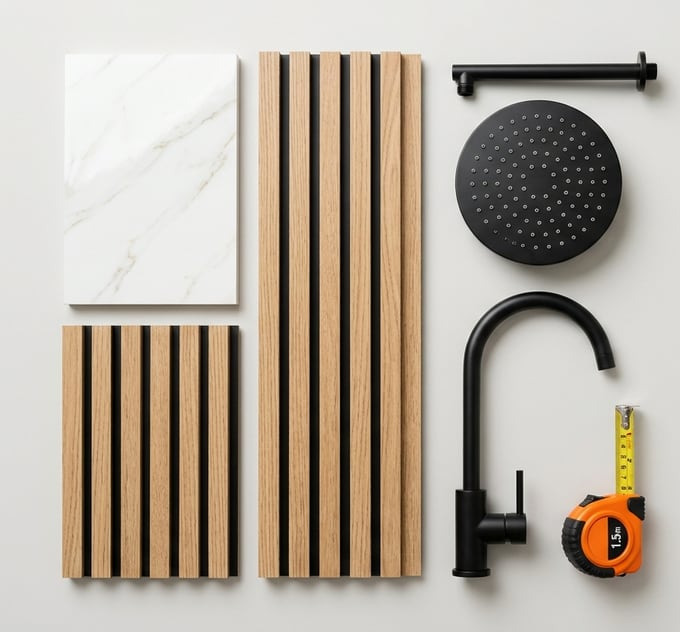
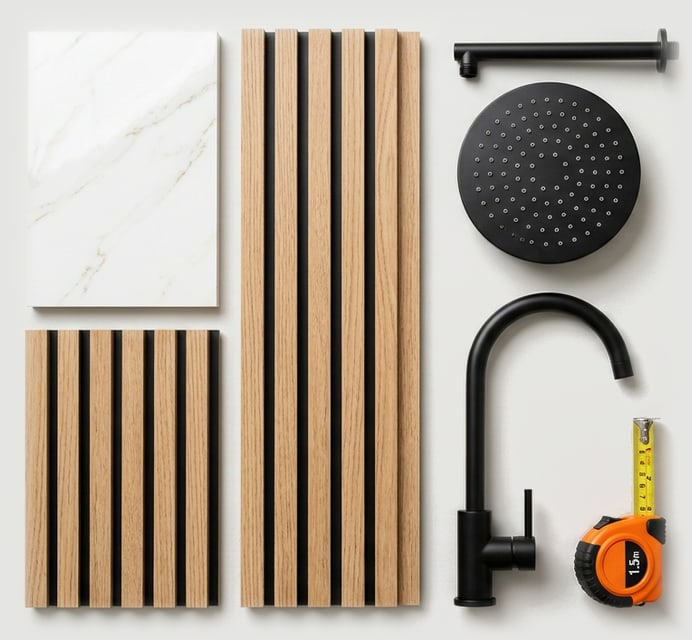
style(products): crop product images to product width and feather background into exact section color

diff --git a/src/components/CategoriesSection.vue b/src/components/CategoriesSection.vue
@@ -1,7 +1,7 @@
 <script setup lang="ts">
 import { buildWhatsAppUrl, siteConfig } from '../config/siteConfig'
 
-const bandBgColors = ['#e5e5e3', '#2b2e33', '#e7e7e7', '#1b1e23']
+const bandBgColors = ['#e5e5e3', '#24272c', '#e7e7e7', '#1b1e23']
 </script>
 
 <template>
@@ -44,15 +44,9 @@ const bandBgColors = ['#e5e5e3', '#2b2e33', '#e7e7e7', '#1b1e23']
             <img
               :src="cat.image"
               :alt="cat.title"
-              width="680"
-              height="650"
               loading="lazy"
               decoding="async"
-              class="h-full w-full max-w-[600px] scale-110 object-contain object-center transition-transform duration-500 group-hover:scale-[1.18] lg:scale-[1.15]"
-              style="
-                -webkit-mask-image: radial-gradient(ellipse 92% 92% at 50% 50%, #000 76%, transparent 100%);
-                mask-image: radial-gradient(ellipse 92% 92% at 50% 50%, #000 76%, transparent 100%);
-              "
+              class="h-full w-auto max-w-full scale-108 object-contain object-center transition-transform duration-500 group-hover:scale-[1.14] lg:scale-[1.12]"
             />
           </div>
 
